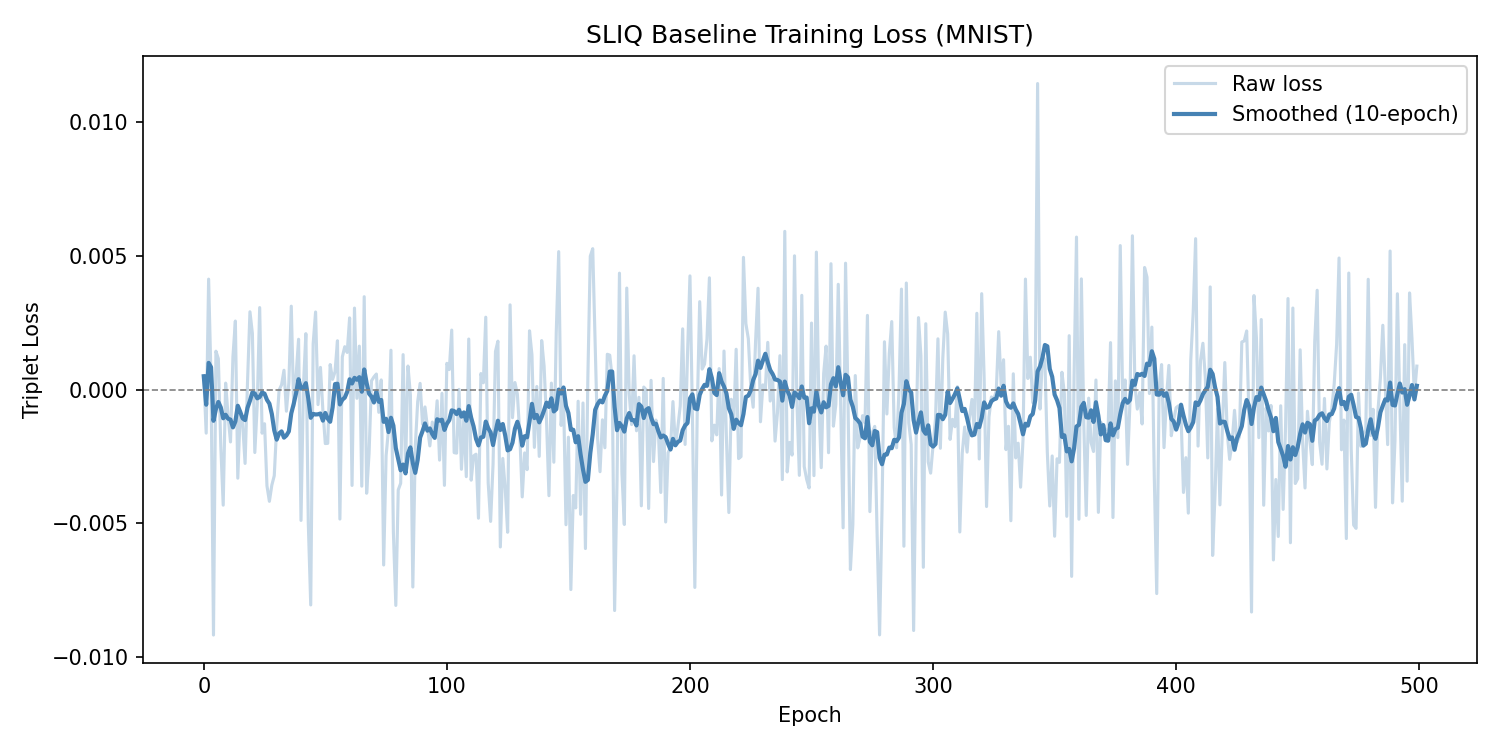
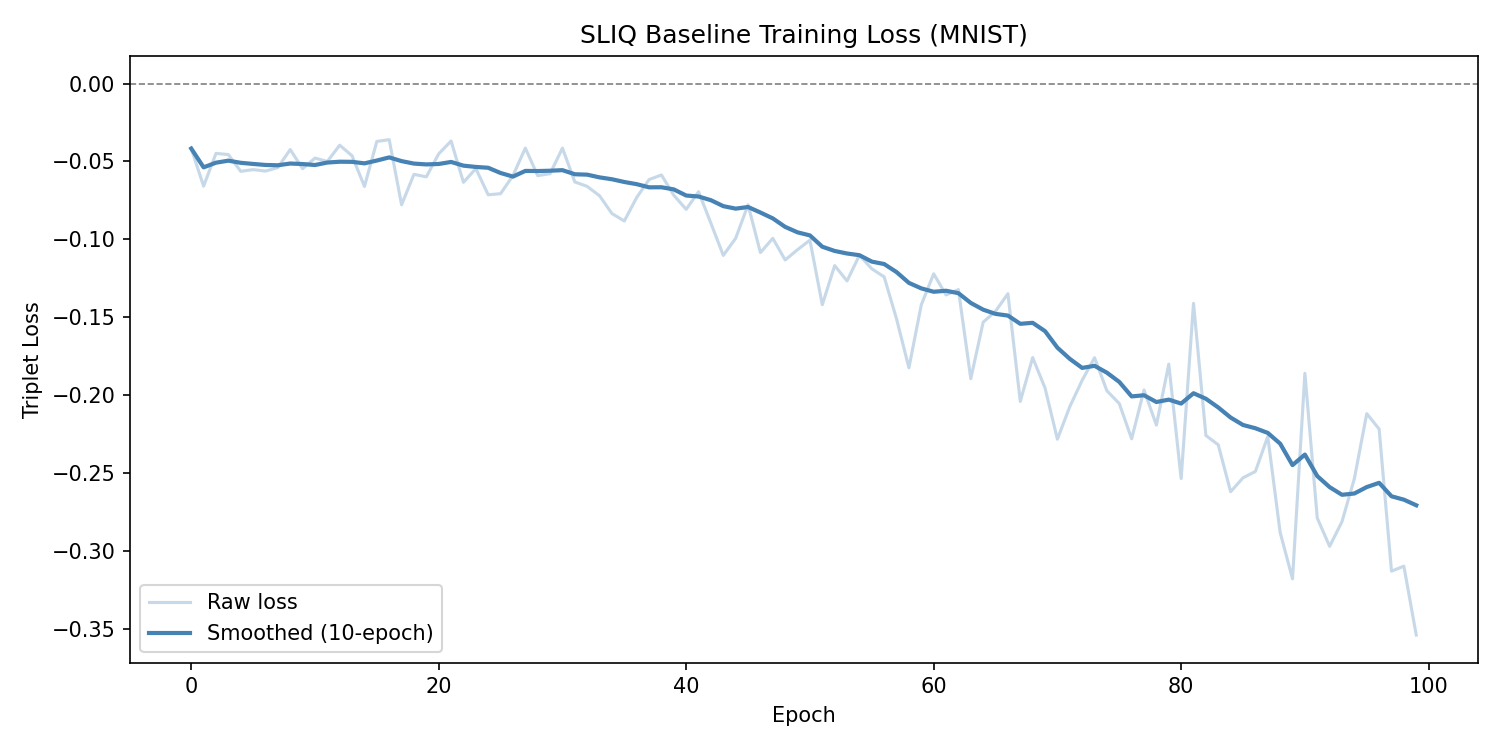
changed loss function, optimiser, added GMM and clustering plotting

diff --git a/basic_net.py b/basic_net.py
@@ -25,13 +25,14 @@ class Triplet:
         self.num_wires = num_qubits
         self.num_layers = 4
         self.batch_size = 30
-        self.epochs = 500
+        self.epochs = 100
         self.embed_dims = 5
         self.losses = []
         
         
     def train(self, triplets):
-        opt = qml.GradientDescentOptimizer(stepsize=0.1)
+        # opt = qml.GradientDescentOptimizer(stepsize=0.1)
+        opt = qml.AdamOptimizer(stepsize=0.01)
         self.weights = 0.01 * np.random.randn(self.num_layers, self.num_wires, 3)
         self.loss_history = []
 
@@ -70,25 +71,16 @@ class Triplet:
     def loss(self, weights, features):
         loss = 0
         for im in features:
-            # Correct Order
-            flattened = []
-            for i, j, k in zip(im[0], im[1], im[2]):
-                flattened.append(i)
-            A = self.layers(self, weights, np.array(flattened))
-            flattened = []
-            for i, j, k in zip(im[0], im[1], im[2]):
-                flattened.append(j)
-            P = self.layers(self, weights, np.array(flattened))
-            flattened = []
-            for i, j, k in zip(im[0], im[1], im[2]):
-                flattened.append(k)
-            N = self.layers(self, weights, np.array(flattened))
-            loss += (np.square(A[0]-P[0]) + np.square(A[1]-P[1])) - (np.square(A[0]-N[0]) + np.square(A[1]-N[1]))
+            A = self.layers(self, weights, np.array(im[0]))
+            P = self.layers(self, weights, np.array(im[1]))
+            N = self.layers(self, weights, np.array(im[2]))
+            # loss += (np.square(A[0]-P[0]) + np.square(A[1]-P[1])) - (np.square(A[0]-N[0]) + np.square(A[1]-N[1]))
+            loss += (np.abs(A[0]-P[0]) + np.abs(A[1]-P[1])) - (np.abs(A[0]-N[0]) + np.abs(A[1]-N[1]))
         #print(str(loss))
         #print(f'Epoch: {self.cur_epoch} Accuracy: {100* correct / (len(features))}')
         return loss / len(features)
 
-    @qml.qnode(qml.device(name='lightning.qubit', wires=13))
+    @qml.qnode(qml.device(name='lightning.qubit', wires=6))
     def layers(self, weights, features=None):
         AmplitudeEmbedding(features=features.astype('float64'), wires=range(self.num_wires), normalize=True, pad_with=0)
         #AmplitudeEmbedding(features=features.astype('float64'), wires=range(2), normalize=True, pad_with=0)
@@ -157,44 +149,69 @@ class Triplet:
             weights = self.weights
         embeddings = []
         for im in tqdm(triplets, desc="Generating embeddings"):
-            flattened = []
-            for i, j, k in zip(im[0], im[1], im[2]):
-                # grab the acnhor image and flatten it
-                flattened.append(i)
-            z_out = self.layers(self, weights, np.array(flattened))
+            z_out = self.layers(self, weights, np.array(im[0]))
             embeddings.append(numpy.array([float(z) for z in z_out]))
         return numpy.array(embeddings)
 
-    def plot_embeddings(self, triplets, labels, weights=None):
+    def plot_embeddings(self, triplets, labels, test_triplets=None, test_labels=None, weights=None):
         embeddings = self.get_embeddings(triplets, weights)
-        anchor_labels = [int(l[0]) for l in labels]  # just the anchor label per triplet
+        anchor_labels = [int(l) for l in labels]
 
-        # GMM clustering
+        has_test = test_triplets is not None
+        if has_test:
+            test_embeddings = self.get_embeddings(test_triplets, weights)
+            test_anchor_labels = [int(l) for l in test_labels]
+
+        eval_embeddings = test_embeddings if has_test else embeddings
+        eval_labels = test_anchor_labels if has_test else anchor_labels
+
+        # GMM - fit on train, evaluate on eval set
         num_classes = len(set(anchor_labels))
         gmm = GaussianMixture(n_components=num_classes, random_state=42, n_init=10)
         gmm.fit(embeddings)
+        y_hat = gmm.predict(eval_embeddings)
 
-        # plot
+        # permutation search
+        y_hats = self.generate_y_hats(y_hat, num_classes)
+        max_cor, best_yhat = 0, y_hat
+        for yh in y_hats:
+            num_cor = sum(1 for i, j in zip(yh, eval_labels) if i == j)
+            if num_cor > max_cor:
+                max_cor = num_cor
+                best_yhat = yh
+
+        accuracy = 100 * max_cor / len(eval_labels)
+        print(f"GMM Clustering Accuracy ({'test' if has_test else 'train'}): {accuracy:.2f}%")
+
         unique_labels = sorted(set(anchor_labels))
         colors = plt.cm.tab10(numpy.linspace(0, 1, len(unique_labels)))
 
-        fig, ax = plt.subplots(figsize=(8, 6))
+        n_plots = 2 if has_test else 1
+        fig, axes = plt.subplots(1, n_plots, figsize=(8 * n_plots, 6))
+        if not has_test:
+            axes = [axes]
 
-        for label, color in zip(unique_labels, colors):
-            mask = [i for i, l in enumerate(anchor_labels) if l == label]
-            ax.scatter(
-                embeddings[mask, 0], embeddings[mask, 1],
-                label=f'Class {label}',
-                color=color,
-                alpha=0.7,
-                s=30,
-                edgecolors='none'
-            )
+        def scatter_plot(ax, embs, lbls, title):
+            unique = sorted(set(lbls))
+            for label, color in zip(unique, colors):
+                mask = [i for i, l in enumerate(lbls) if l == label]
+                ax.scatter(
+                    embs[mask, 0], embs[mask, 1],
+                    label=f'Class {label}',
+                    color=color, alpha=0.7, s=30, edgecolors='none'
+                )
+            ax.set_xlabel('Z₀ expectation')
+            ax.set_ylabel('Z₁ expectation')
+            ax.set_title(title)
+            ax.legend()
 
-        ax.set_xlabel('Z₀ expectation')
-        ax.set_ylabel('Z₁ expectation')
-        ax.set_title('SLIQ Baseline Embeddings — MNIST')
-        ax.legend()
+        scatter_plot(axes[0], embeddings, anchor_labels, 'Train Embeddings')
+        if has_test:
+            scatter_plot(axes[1], test_embeddings, test_anchor_labels,
+                        f'Test Embeddings\nGMM Accuracy: {accuracy:.2f}%')
+        else:
+            axes[0].set_title(f'SLIQ Baseline Embeddings — MNIST\nGMM Accuracy: {accuracy:.2f}%')
+
         plt.tight_layout()
         plt.savefig('sliq_embeddings.png', dpi=150)
         plt.show()

diff --git a/triplet_generator.py b/triplet_generator.py
@@ -21,8 +21,9 @@ def generate_pca_triplets(dataset, label_space=10, num_triplets=5000, testing=Fa
     """
     x, y = load_data(dataset, testing)
     x, y = filter_labels(x, y, label_space)
-    x = scale_data(preprocessing.normalize(x))
-    return generate_triplets(x, y, num_triplets)
+    # x = scale_data(preprocessing.normalize(x))
+    x = perform_pca(x=x)
+    return generate_augmented_triplets(x, y, num_triplets)
 
 
 def load_data(dataset, testing):
@@ -106,6 +107,30 @@ def generate_triplets(x, y, size=5000):
         image_indices.append((index, p_index, n_index))
         labels.append((y[index], y[p_index], y[n_index]))
     return triplets, image_indices, labels
+
+def generate_augmented_triplets(x, y, num_triplets=5000):
+    triplets = []
+    labels = []
+    for _ in range(num_triplets):
+        idx = random.randint(0, len(x) - 1)
+        idy = y[idx] # save its label only for GMM evaluation
+        anchor = x[idx]
+        positive = augment(anchor)
+        neg_idx = idx
+        while neg_idx == idx:
+            neg_idx = random.randint(0, len(x) - 1)
+        negative = x[neg_idx]
+        
+        triplets.append((anchor, positive, negative))
+        labels.append(idy)
+    return triplets, labels
+
+def augment(image, pca_dims=32):
+    # image is already PCA-reduced, shape (32,)
+    # add small gaussian noise
+    noise = np.random.normal(0, 0.05, image.shape)
+    augmented = np.clip(image + noise, 0, 1)
+    return augmented.astype(np.float32)
 
 
 def scale_data(data, scale=None, dtype=np.float32):

diff --git a/main.py b/main.py
@@ -4,11 +4,14 @@ import basic_net
 import numpy as np
 if __name__ == '__main__':
     dataset='MNIST'
-    num_qubits = 11
+    num_qubits = 6
     # Preprocessing
-    triplets, indices, labels = triplet_generator.generate_pca_triplets(dataset, label_space=2, num_triplets=1000, testing=True)
+    triplets, labels = triplet_generator.generate_pca_triplets(dataset, label_space=4, num_triplets=1000, testing=False)
     network = basic_net.Triplet(num_qubits)
     network.train(triplets)
 
     # network.plot_loss()
     network.plot_embeddings(triplets, labels)
+    # load test data
+    t_triplets, t_lebals = triplet_generator.generate_pca_triplets(dataset, label_space=2, num_triplets=1000, testing=True)
+    network.plot_embeddings(triplets, labels, t_triplets, t_lebals)